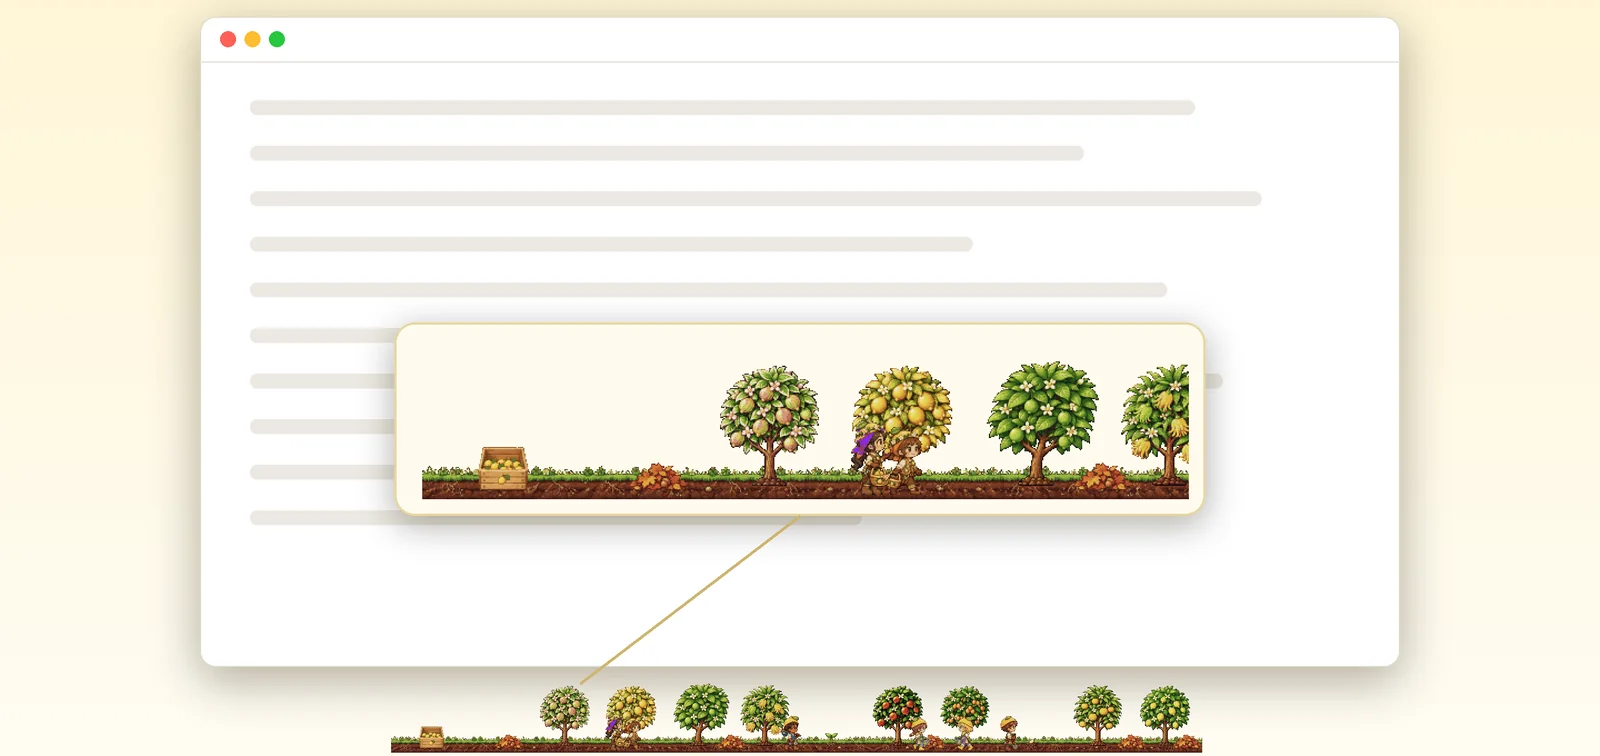
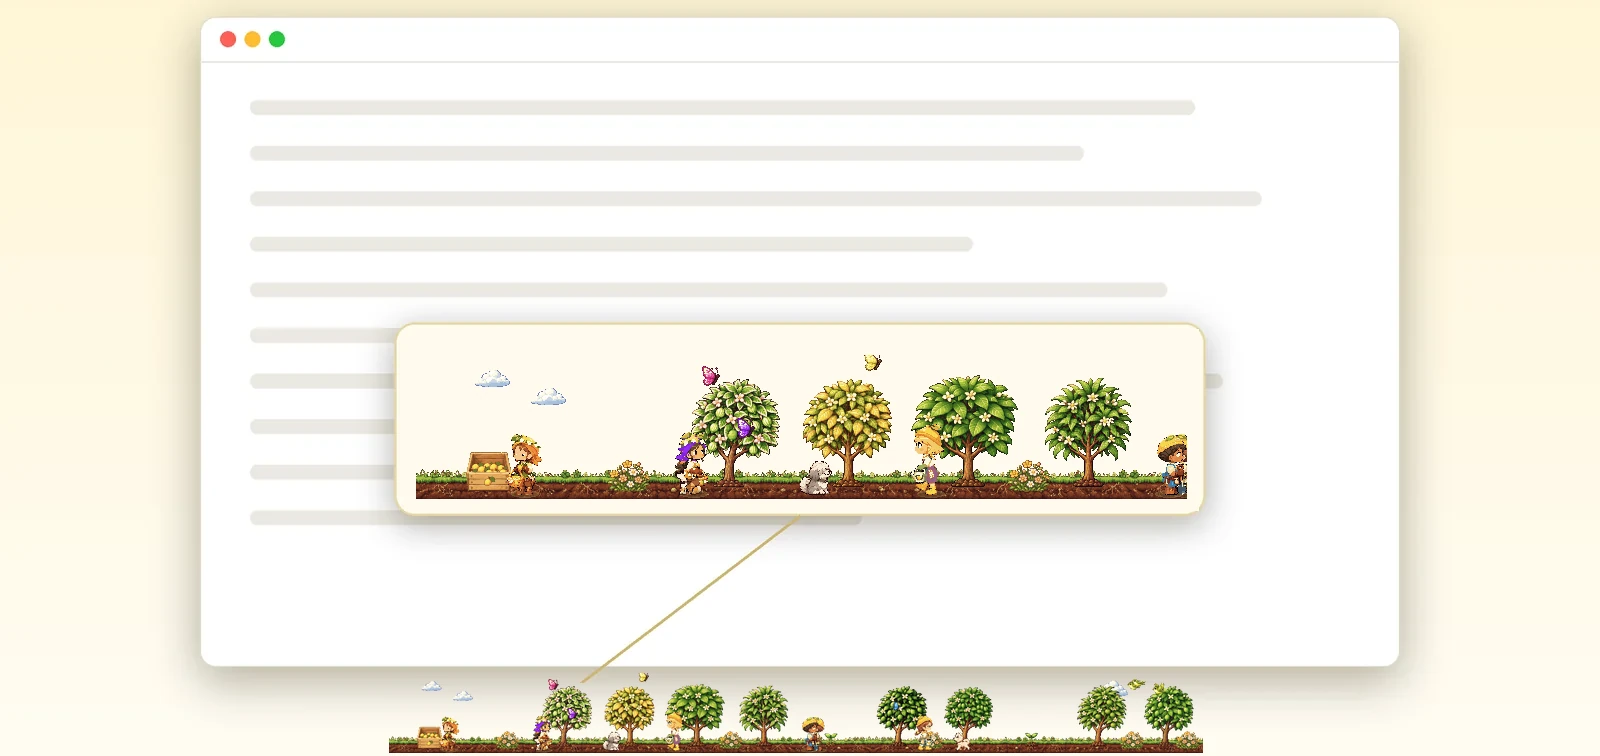
Lemon Desk 1.8.4

diff --git a/site/index.html b/site/index.html
@@ -101,10 +101,10 @@
   <h1>일하는 동안,<br>화면 아래에서<br>레몬 과수원이 자라요.</h1>
   <p class="lead">레몬 모자를 쓴 세 일꾼이 화면 맨 아래 얇은 띠에서 나무를 심고, 물을 주고, 익은 레몬을 따서 창고에 담아요. Mac용 방치형 게임이에요. Windows 베타도 있어요.</p>
   <div class="downloads">
-    <a class="download" href="https://github.com/h9interaction/lemondesk-web/releases/download/v1.8.2/LemonDesk-1.8.2.dmg"><svg viewBox="0 0 18 18" fill="none" stroke="currentColor" stroke-width="1.75" stroke-linecap="round" stroke-linejoin="round" aria-hidden="true"><path d="M9 2.5v8.5M5.5 7.5 9 11l3.5-3.5M3 12.5v1.5a1.5 1.5 0 0 0 1.5 1.5h9a1.5 1.5 0 0 0 1.5-1.5v-1.5"/></svg>Mac 베타 내려받기</a>
+    <a class="download" href="https://github.com/h9interaction/lemondesk-web/releases/download/v1.8.4/LemonDesk-1.8.4.dmg"><svg viewBox="0 0 18 18" fill="none" stroke="currentColor" stroke-width="1.75" stroke-linecap="round" stroke-linejoin="round" aria-hidden="true"><path d="M9 2.5v8.5M5.5 7.5 9 11l3.5-3.5M3 12.5v1.5a1.5 1.5 0 0 0 1.5 1.5h9a1.5 1.5 0 0 0 1.5-1.5v-1.5"/></svg>Mac 베타 내려받기</a>
     <a class="download" href="https://github.com/h9interaction/lemondesk-web/releases/download/windows/LemonDesk-win-Setup.exe"><svg viewBox="0 0 18 18" fill="none" stroke="currentColor" stroke-width="1.75" stroke-linecap="round" stroke-linejoin="round" aria-hidden="true"><path d="M9 2.5v8.5M5.5 7.5 9 11l3.5-3.5M3 12.5v1.5a1.5 1.5 0 0 0 1.5 1.5h9a1.5 1.5 0 0 0 1.5-1.5v-1.5"/></svg>Windows 베타 내려받기</a>
   </div>
-  <p class="meta">무료 베타 1.8.2, macOS 26 이상 · Apple Silicon과 Intel Mac</p>
+  <p class="meta">무료 베타 1.8.4, macOS 26 이상 · Apple Silicon과 Intel Mac</p>
   <p class="meta">Windows 베타 1.8.3, Windows 10·11 64비트 · 서명하지 않은 베타라 처음 열 때 '추가 정보 → 실행'을 눌러 주세요</p>
 </header>
 
@@ -116,9 +116,9 @@
   <section class="wrap feature">
     <div>
       <h2>업무 창을<br>가리지 않는 띠</h2>
-      <p>과수원은 Dock 바로 위, 화면 가운데에 높이 72pt 띠로만 자리 잡아요. 클릭은 그대로 아래 창으로 지나가고, 전체 화면 앱을 쓸 때는 알아서 숨어요.</p>
+      <p>과수원은 Dock 바로 위, 화면 가운데에 높이 72pt 띠로만 자리 잡아요. 클릭은 그대로 아래 창으로 지나가고, 전체 화면 앱을 쓸 때는 알아서 숨어요. 하늘에는 구름이 흐르고 새가 지나가고, 꽃이 핀 나무에는 나비가 모여요. 집 지키는 강아지 세 마리도 저마다 돌아다녀요.</p>
     </div>
-    <figure><img src="shot-01.webp?v=2" width="1600" height="756" loading="lazy" decoding="async" alt="문서 창 아래 화면 맨 밑에 레몬나무와 일꾼이 있는 얇은 띠가 깔려 있고, 띠 일부를 확대해 보여 준다."></figure>
+    <figure><img src="shot-01.webp?v=3" width="1600" height="756" loading="lazy" decoding="async" alt="문서 창 아래 화면 맨 밑에 레몬나무와 일꾼이 있는 얇은 띠가 깔려 있고, 띠 일부를 확대해 보여 준다. 구름이 떠 있고, 나무 둘레에 나비가 날고, 강아지가 돌아다닌다."></figure>
   </section>
 
   <section class="wrap feature">
@@ -169,10 +169,10 @@
   <section class="wrap closing">
     <h2>오늘 오후부터<br>과수원을 키워 보세요.</h2>
     <div class="downloads">
-      <a class="download" href="https://github.com/h9interaction/lemondesk-web/releases/download/v1.8.2/LemonDesk-1.8.2.dmg"><svg viewBox="0 0 18 18" fill="none" stroke="currentColor" stroke-width="1.75" stroke-linecap="round" stroke-linejoin="round" aria-hidden="true"><path d="M9 2.5v8.5M5.5 7.5 9 11l3.5-3.5M3 12.5v1.5a1.5 1.5 0 0 0 1.5 1.5h9a1.5 1.5 0 0 0 1.5-1.5v-1.5"/></svg>Mac 베타 내려받기</a>
+      <a class="download" href="https://github.com/h9interaction/lemondesk-web/releases/download/v1.8.4/LemonDesk-1.8.4.dmg"><svg viewBox="0 0 18 18" fill="none" stroke="currentColor" stroke-width="1.75" stroke-linecap="round" stroke-linejoin="round" aria-hidden="true"><path d="M9 2.5v8.5M5.5 7.5 9 11l3.5-3.5M3 12.5v1.5a1.5 1.5 0 0 0 1.5 1.5h9a1.5 1.5 0 0 0 1.5-1.5v-1.5"/></svg>Mac 베타 내려받기</a>
       <a class="download" href="https://github.com/h9interaction/lemondesk-web/releases/download/windows/LemonDesk-win-Setup.exe"><svg viewBox="0 0 18 18" fill="none" stroke="currentColor" stroke-width="1.75" stroke-linecap="round" stroke-linejoin="round" aria-hidden="true"><path d="M9 2.5v8.5M5.5 7.5 9 11l3.5-3.5M3 12.5v1.5a1.5 1.5 0 0 0 1.5 1.5h9a1.5 1.5 0 0 0 1.5-1.5v-1.5"/></svg>Windows 베타 내려받기</a>
     </div>
-    <p class="meta">무료 베타 1.8.2, macOS 26 이상. 다른 사람들이 키운 과수원은 <a href="brag/">자랑 게시판</a>에서 볼 수 있어요.</p>
+    <p class="meta">무료 베타 1.8.4, macOS 26 이상. 다른 사람들이 키운 과수원은 <a href="brag/">자랑 게시판</a>에서 볼 수 있어요.</p>
     <p class="meta">Windows 베타 1.8.3, Windows 10·11 64비트 · 서명하지 않은 베타라 처음 열 때 '추가 정보 → 실행'을 눌러 주세요</p>
   </section>
 </main>
